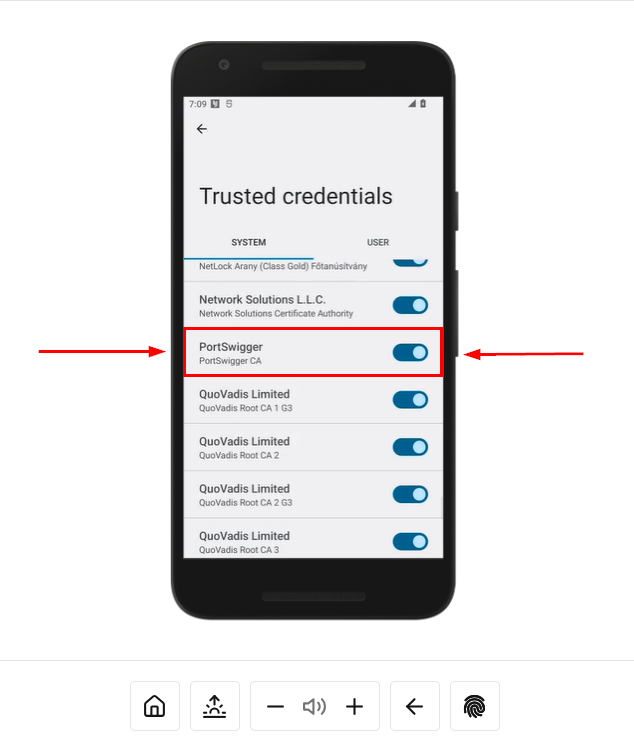
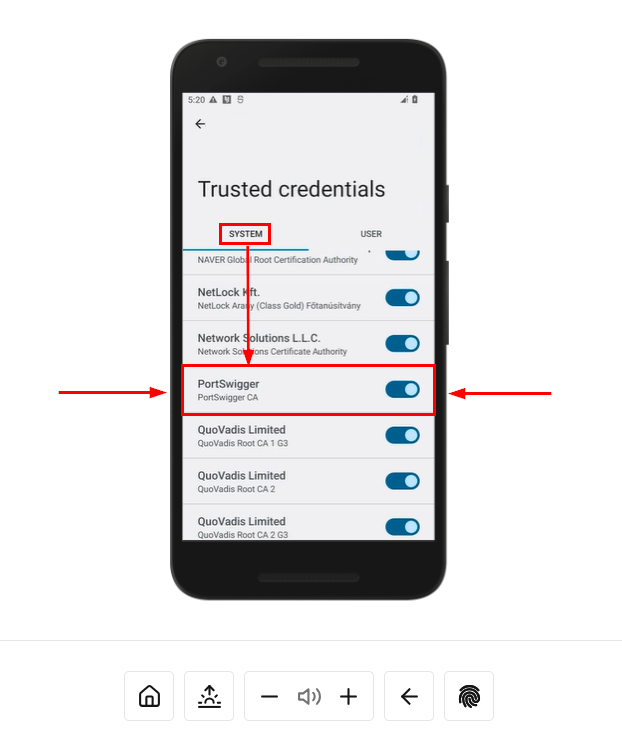
Lab 5 final changes and updates

diff --git a/Labs/LAB_05_Import_Burp_Certificate_To_System_Trust_Store/burp-proxy-system-cert-trust.md b/Labs/LAB_05_Import_Burp_Certificate_To_System_Trust_Store/burp-proxy-system-cert-trust.md
@@ -67,6 +67,7 @@ If you are using a different mobile device solution for testing, Android devices
 
 >[!Important]
 >The IP that you need to use to connect to the device can be found in the VPN section of the `Connect` tab on your Corellium device.
+>
 >![](images/vpnip.png)
 
 ![adb connect](images/adb-connect.jpg)
@@ -89,24 +90,25 @@ As root, we will remount and push the certificate to the local file system of th
 
 <pre>adb push [cert].0 /sdcard/</pre>
 
+>[!Note]
+>Make sure you are in the same directory as the `[cert].0` file!
+
 ![adb root](images/adb-as-root.jpg)
 
 3. We need to drop into a shell and move the file to `/system/etc/security/cacerts` and run the `chmod` command with permissions set to **644**:
 
-Start by running the following:
-<pre>adb shell</pre>
 
-Now move the file to the correct location:
+Start by moving the file to the correct location:
 
-<pre>mv /sdcard/[cert].0 /system/etc/security/cacerts/</pre>
+<pre>adb shell mv /sdcard/[cert].0 /system/etc/security/cacerts/</pre>
 
 And finally, change the permissions:
 
-<pre>chmod 644 /system/etc/security/cacerts/9a5ba575.0</pre>
+<pre>adb shell chmod 644 /system/etc/security/cacerts/[cert].0</pre>
 
 4. Run the `ls` command to verify the correct permissions are set.
 
-<pre>ls -lah /system/etc/security/cacerts/[cert].0</pre>
+<pre>adb shell ls -lah /system/etc/security/cacerts/[cert].0</pre>
 
 ![adb add cert and set permissions](images/adb-push-cert-to-system-1.jpg)
 
@@ -116,7 +118,7 @@ And finally, change the permissions:
 
 Return to your virtual device in Corellium and navigate to **Settings -> Security -> Encryption & Credentials -> Trusted Credentials -> System**. Then scroll down until you see *PortSwigger - PortSwiggerCA*.
 
-![Burp CA Certificate Installed in System Store](images/burp-cert-system-store.jpg)
+![](images/verifycert.png)
 
 ***                                                                 
 
